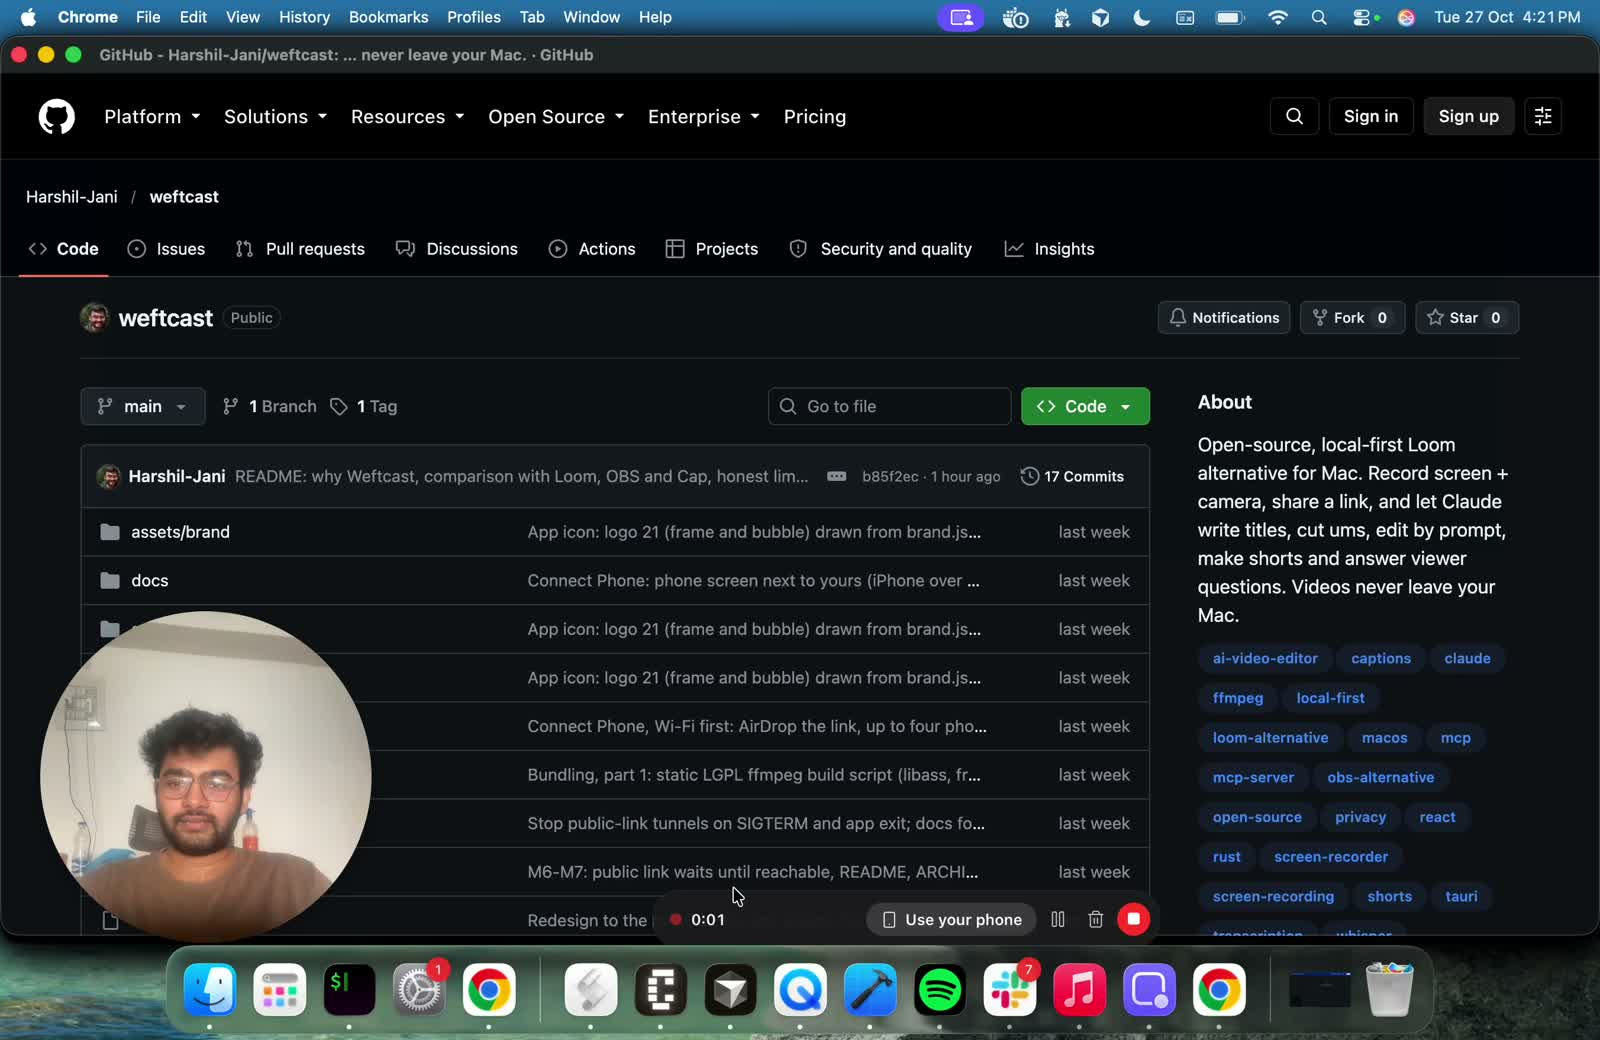
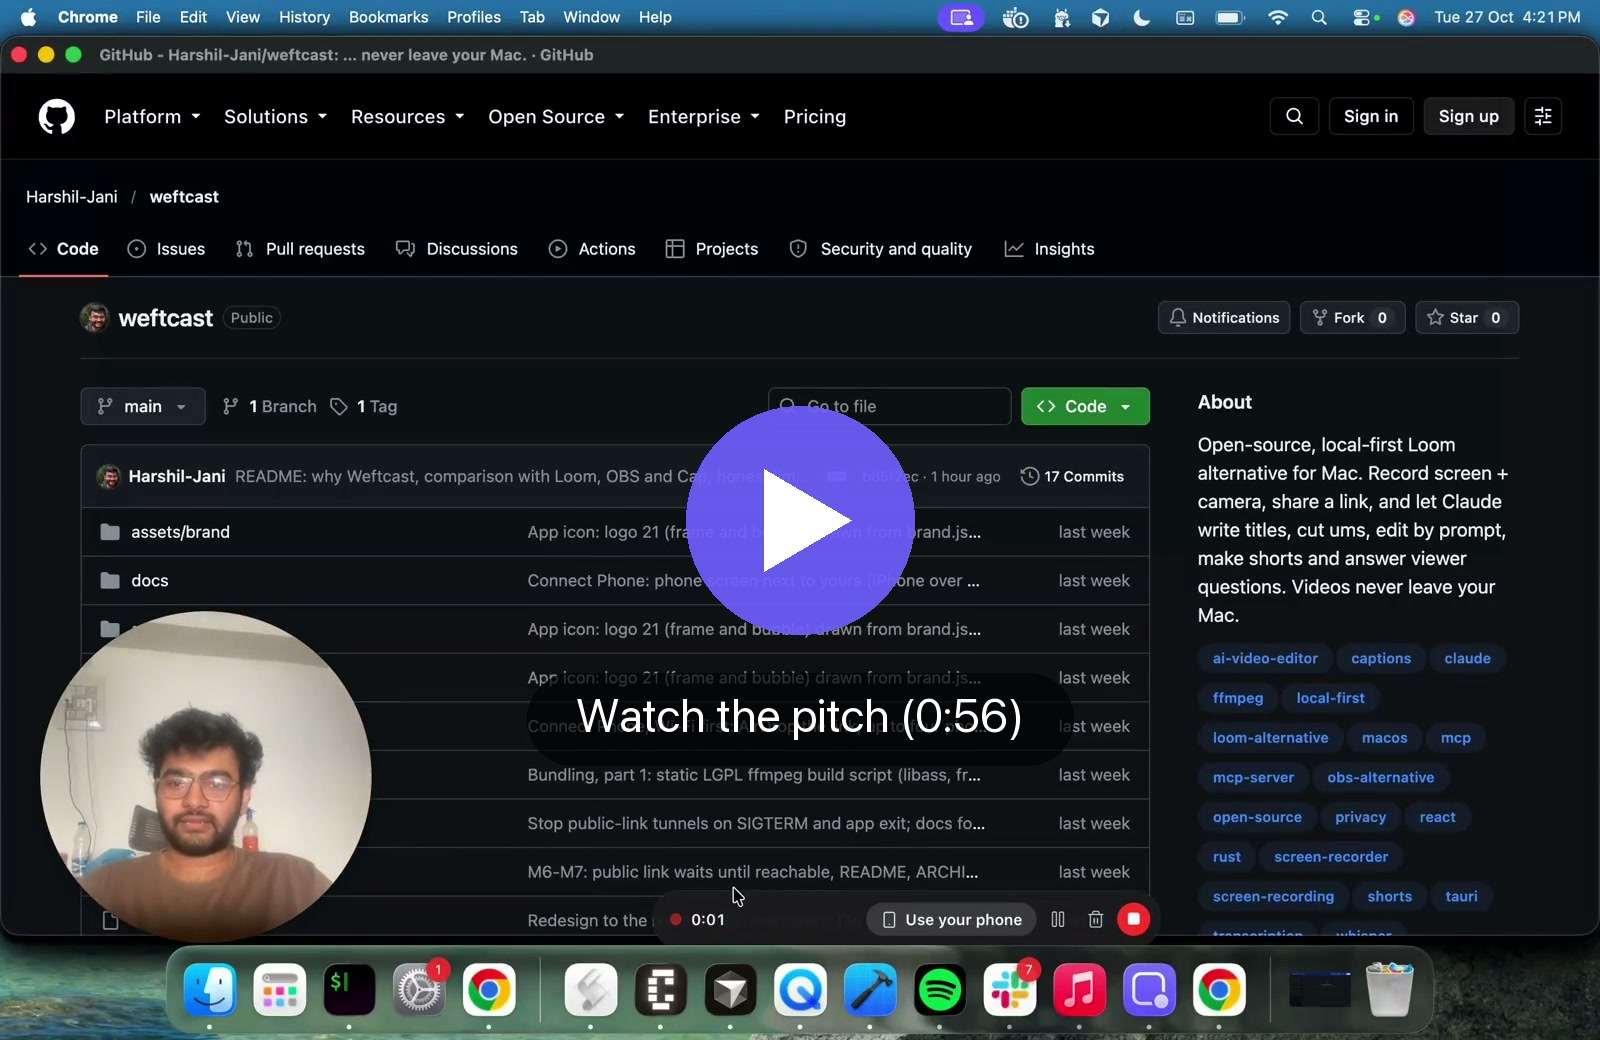
README: play button on the pitch poster, 0:56 length

Changed region(s): [[0.4062, 0.3692, 0.5938, 0.6154], [0.3438, 0.6462, 0.6562, 0.7077]]

diff --git a/README.md b/README.md
@@ -18,8 +18,8 @@
 <a href="#how-share-links-work">How share links work</a>
 </p>
 
-<p align="center"><a href="https://cdn.jsdelivr.net/gh/Harshil-Jani/weftcast@main/docs/media/pitch.mp4"><img src="docs/media/pitch-poster.jpg" alt="Watch the one-minute pitch, recorded with Weftcast" width="80%"></a><br>
-<sub>The one-minute pitch above was recorded, cleaned up and titled in Weftcast. Click it to play with sound.</sub></p>
+<p align="center"><a href="https://cdn.jsdelivr.net/gh/Harshil-Jani/weftcast@main/docs/media/pitch.mp4"><img src="docs/media/pitch-poster.jpg" alt="Watch the 56-second pitch, recorded with Weftcast" width="80%"></a><br>
+<sub>The 56-second pitch above was recorded, cleaned up and titled in Weftcast. Click it to play with sound.</sub></p>
 
 ## The idea
 
